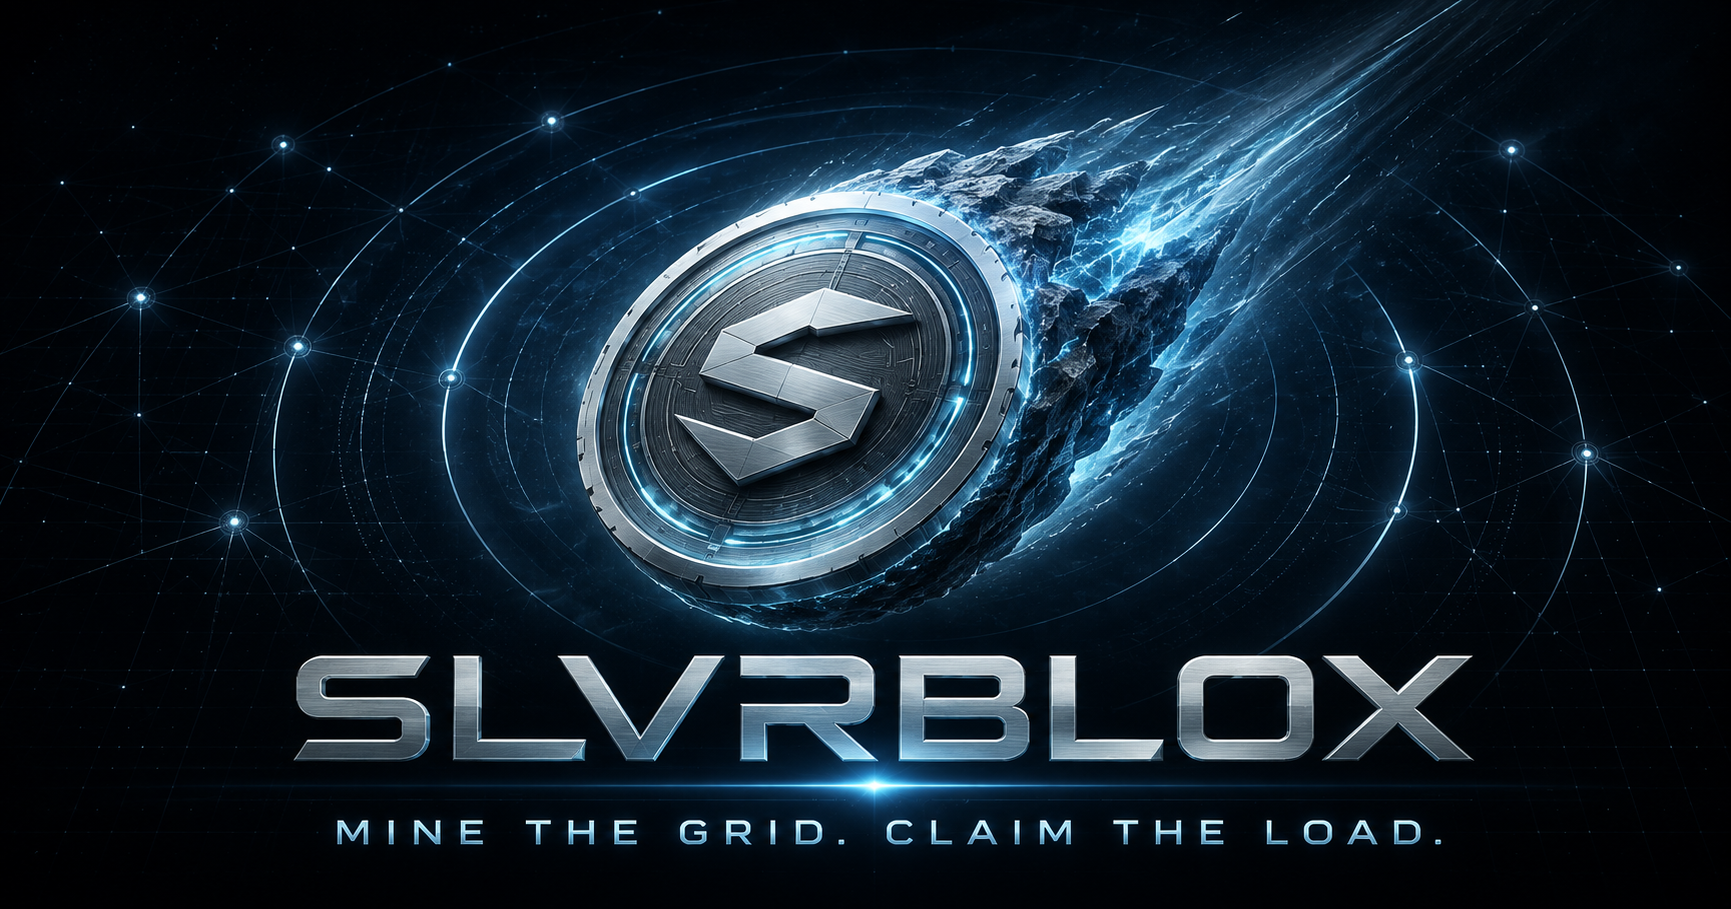
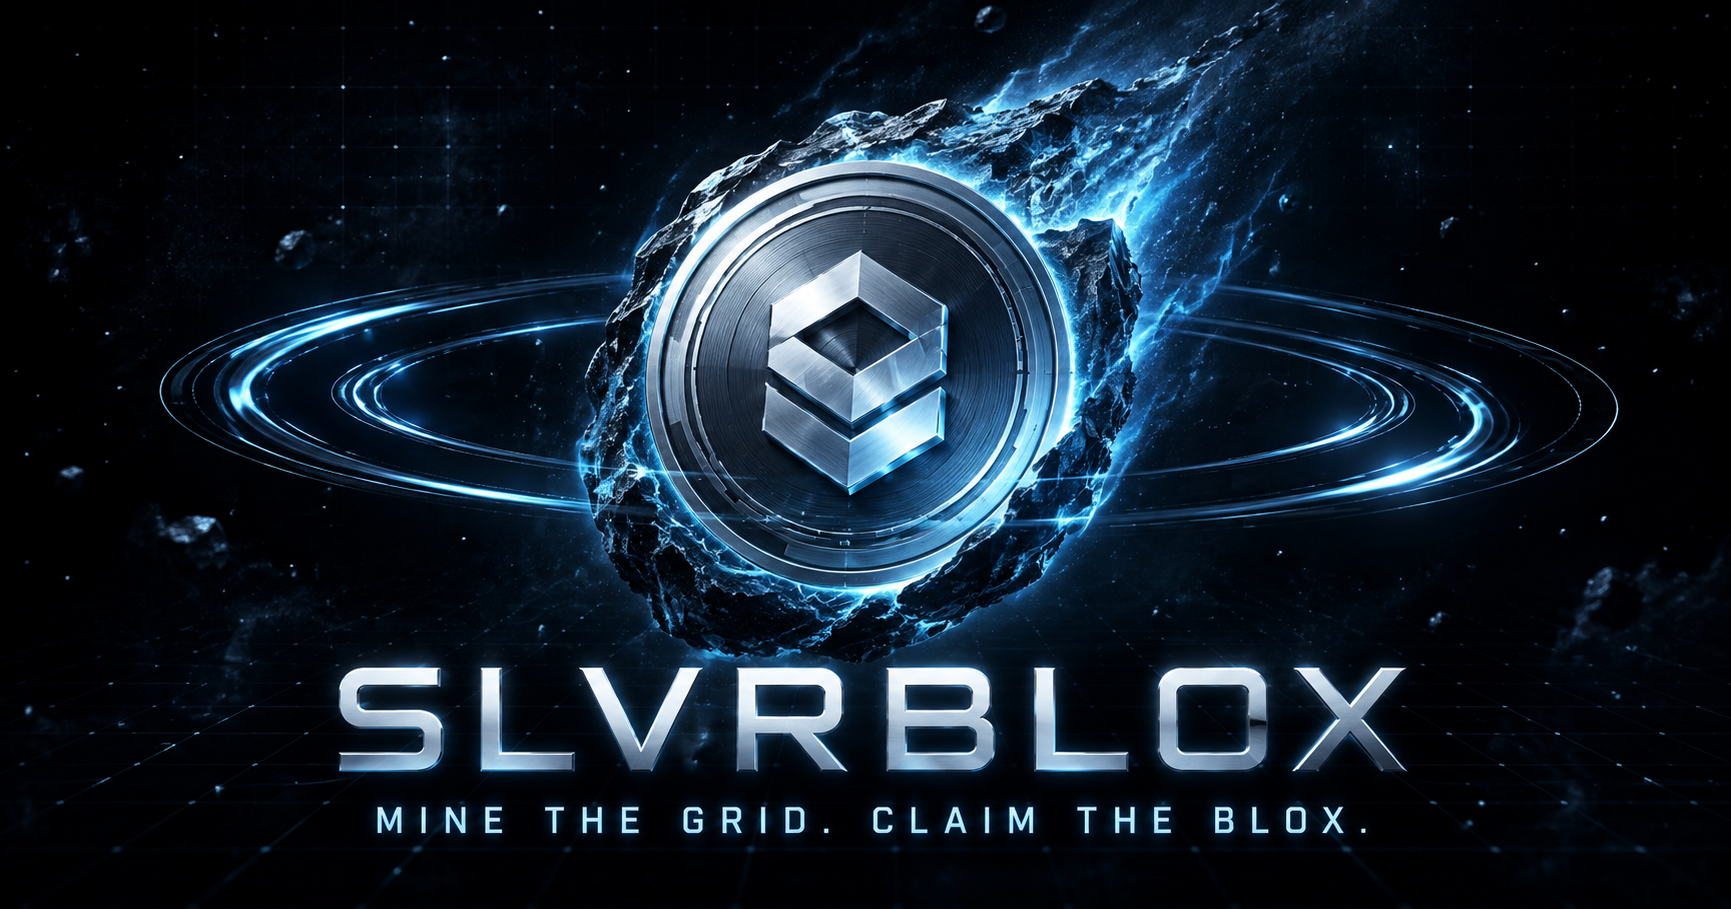
fix: refine landing hero layout and copy

diff --git a/web/app/globals.css b/web/app/globals.css
@@ -102,9 +102,9 @@ body .account-avatar>span,body .refining-card>.claim-icon{position:relative;disp
 .landing-page{--landing-ice:#a9e8ff;--landing-blue:#55c5f1;position:relative;min-height:100vh;overflow:hidden;background:radial-gradient(circle at 50% 43%,#172b39 0,#0a121a 21%,#05080d 52%,#030509 100%);color:#f4f8fb}.landing-page:before{content:"";position:absolute;inset:0;pointer-events:none;background-image:linear-gradient(rgba(255,255,255,.018) 1px,transparent 1px),linear-gradient(90deg,rgba(255,255,255,.018) 1px,transparent 1px);background-size:44px 44px;mask-image:linear-gradient(to bottom,black,transparent 75%)}
 .landing-nav{position:relative;z-index:5;display:flex;align-items:center;width:min(1380px,calc(100% - 64px));height:92px;margin:auto;border-bottom:1px solid rgba(151,196,222,.15)}.landing-logo{display:block;width:190px;height:54px}.landing-logo img{width:100%;height:100%;object-fit:contain;object-position:left}.landing-nav nav{display:flex;gap:34px;margin-left:auto}.landing-nav nav a,.landing-presale{color:#8493a2;font-size:12px;font-weight:750;text-decoration:none;transition:.2s}.landing-nav nav a:hover{color:#fff}.landing-presale{margin-left:38px;padding:11px 16px;border:1px solid #344d60;border-radius:99px;color:#bdeaff}.landing-presale:hover{border-color:#72cbea;background:#102333}
 .landing-hero{position:relative;display:grid;place-items:center;min-height:calc(100vh - 222px);isolation:isolate}.landing-orbit{position:absolute;width:min(69vw,820px);aspect-ratio:1;border:1px solid rgba(119,204,240,.22);border-radius:50%;box-shadow:0 0 100px rgba(38,140,187,.1),inset 0 0 90px rgba(49,143,184,.08);animation:landing-breathe 7s ease-in-out infinite}.landing-orbit:before,.landing-orbit:after,.landing-orbit i{content:"";position:absolute;border:1px solid rgba(111,188,240,.13);border-radius:50%;inset:10%}.landing-orbit:after{inset:25%;border-color:rgba(196,237,255,.2)}.landing-orbit i:nth-child(1){inset:-7%;border-style:dashed;animation:landing-spin 55s linear infinite}.landing-orbit i:nth-child(2){inset:19%;border-color:rgba(111,188,240,.26);animation:landing-spin 32s linear reverse infinite}.landing-orbit i:nth-child(3){inset:37%;border-color:rgba(231,249,255,.32)}
-.landing-coin{position:absolute;z-index:1;width:min(27vw,330px);filter:drop-shadow(0 0 55px rgba(95,198,240,.42));animation:landing-float 6s ease-in-out infinite}.landing-coin img{width:100%;height:auto}.landing-copy{position:relative;z-index:2;text-align:center;transform:translateY(80px)}.landing-copy>p{display:flex;justify-content:center;align-items:center;gap:9px;margin:0 0 20px;color:#8da7b7;font:750 9px/1 var(--font-geist-mono);letter-spacing:.2em}.landing-copy>p span{width:6px;height:6px;border-radius:50%;background:#6ee9b4;box-shadow:0 0 12px #6ee9b4}.landing-copy h1{margin:0;font-size:clamp(48px,6.5vw,92px);line-height:.93;letter-spacing:-.065em;text-shadow:0 8px 40px #000}.landing-copy h1 em{color:var(--landing-ice);font-style:normal}.landing-actions{display:flex;justify-content:center;align-items:center;gap:22px;margin-top:30px}.landing-actions a{font-size:12px;font-weight:850;text-decoration:none}.landing-primary{display:flex;align-items:center;gap:20px;padding:15px 21px;border-radius:99px;background:#f5f8fa;color:#081017;box-shadow:0 9px 30px rgba(0,0,0,.35)}.landing-primary b{font-size:17px}.landing-primary:hover{background:var(--landing-ice)}.landing-secondary{padding:14px;color:#a0afbb}.landing-secondary:hover{color:#fff}
-.landing-metrics{position:relative;z-index:4;display:grid;grid-template-columns:repeat(4,1fr);width:min(1120px,calc(100% - 64px));margin:-24px auto 0;border-top:1px solid rgba(151,196,222,.18);border-bottom:1px solid rgba(151,196,222,.12);background:rgba(4,8,13,.45);backdrop-filter:blur(14px)}.landing-metrics article{padding:19px 25px;border-right:1px solid rgba(151,196,222,.13)}.landing-metrics article:last-child{border:0}.landing-metrics span{display:block;color:#637888;font:750 8px/1 var(--font-geist-mono);letter-spacing:.15em}.landing-metrics strong{display:block;margin-top:9px;color:#e9f7fd;font-size:16px}.landing-footer{position:relative;z-index:4;display:flex;align-items:center;width:min(1380px,calc(100% - 64px));min-height:72px;margin:auto;color:#526574;font:700 9px/1 var(--font-geist-mono);letter-spacing:.12em}.landing-footer div{display:flex;gap:24px;margin:auto}.landing-footer a{color:#607483;text-decoration:none}.landing-footer a:hover{color:#a9e8ff}.landing-footer small{color:#68ccef}
+.landing-live{position:absolute;z-index:3;top:7%;display:flex;align-items:center;gap:9px;margin:0;color:#9ab0bd;font:750 9px/1 var(--font-geist-mono);letter-spacing:.2em;text-shadow:0 2px 10px #02060a}.landing-live span{width:6px;height:6px;border-radius:50%;background:#6ee9b4;box-shadow:0 0 12px #6ee9b4}.landing-coin{position:absolute;z-index:1;width:min(27vw,330px);filter:drop-shadow(0 0 55px rgba(95,198,240,.42));animation:landing-float 6s ease-in-out infinite}.landing-coin img{width:100%;height:auto}.landing-copy{position:relative;z-index:2;text-align:center;transform:translateY(43px)}.landing-copy h1{margin:0;font-size:clamp(48px,6.5vw,92px);line-height:.93;letter-spacing:-.065em;text-shadow:0 8px 40px #000}.landing-copy h1 em{color:var(--landing-ice);font-style:normal}.landing-actions{display:flex;justify-content:center;align-items:center;gap:22px;margin-top:25px}.landing-actions a{font-size:12px;font-weight:850;text-decoration:none}.landing-primary{display:flex;align-items:center;gap:20px;padding:15px 21px;border-radius:99px;background:#f5f8fa;color:#081017;box-shadow:0 9px 30px rgba(0,0,0,.35)}.landing-primary b{font-size:17px}.landing-primary:hover{background:var(--landing-ice)}.landing-secondary{padding:14px;color:#a0afbb}.landing-secondary:hover{color:#fff}
+.landing-metrics{position:relative;z-index:4;display:grid;grid-template-columns:repeat(4,1fr);width:min(1120px,calc(100% - 64px));margin:0 auto;border-top:1px solid rgba(151,196,222,.18);border-bottom:1px solid rgba(151,196,222,.12);background:rgba(4,8,13,.45);backdrop-filter:blur(14px)}.landing-metrics article{padding:19px 25px;border-right:1px solid rgba(151,196,222,.13)}.landing-metrics article:last-child{border:0}.landing-metrics span{display:block;color:#637888;font:750 8px/1 var(--font-geist-mono);letter-spacing:.15em}.landing-metrics strong{display:block;margin-top:9px;color:#e9f7fd;font-size:16px}.landing-footer{position:relative;z-index:4;display:flex;align-items:center;width:min(1380px,calc(100% - 64px));min-height:72px;margin:auto;color:#526574;font:700 9px/1 var(--font-geist-mono);letter-spacing:.12em}.landing-footer div{display:flex;gap:24px;margin:auto}.landing-footer a{color:#607483;text-decoration:none}.landing-footer a:hover{color:#a9e8ff}.landing-footer small{color:#68ccef}
 @keyframes landing-spin{to{transform:rotate(360deg)}}@keyframes landing-float{50%{transform:translateY(-13px) rotate(2deg)}}@keyframes landing-breathe{50%{transform:scale(1.025);opacity:.82}}
-@media(max-width:760px){.landing-nav{width:calc(100% - 30px);height:72px}.landing-logo{width:145px}.landing-nav nav{display:none}.landing-presale{margin-left:auto;padding:9px 13px}.landing-hero{min-height:640px}.landing-orbit{width:145vw}.landing-coin{top:78px;width:230px}.landing-copy{padding:0 18px;transform:translateY(82px)}.landing-copy h1{font-size:clamp(44px,14vw,66px)}.landing-actions{flex-direction:column;gap:5px}.landing-metrics{grid-template-columns:1fr 1fr;width:calc(100% - 30px);margin:-50px auto 0}.landing-metrics article:nth-child(2){border-right:0}.landing-metrics article:nth-child(-n+2){border-bottom:1px solid rgba(151,196,222,.13)}.landing-metrics article{padding:15px}.landing-metrics strong{font-size:14px}.landing-footer{width:calc(100% - 30px);justify-content:space-between}.landing-footer div{display:none}}
+@media(max-width:760px){.landing-nav{width:calc(100% - 30px);height:72px}.landing-logo{width:145px}.landing-nav nav{display:none}.landing-presale{margin-left:auto;padding:9px 13px}.landing-hero{min-height:640px}.landing-orbit{width:145vw}.landing-live{top:42px}.landing-coin{top:78px;width:230px}.landing-copy{padding:0 18px;transform:translateY(48px)}.landing-copy h1{font-size:clamp(44px,14vw,66px)}.landing-actions{flex-direction:column;gap:5px}.landing-metrics{grid-template-columns:1fr 1fr;width:calc(100% - 30px);margin:0 auto}.landing-metrics article:nth-child(2){border-right:0}.landing-metrics article:nth-child(-n+2){border-bottom:1px solid rgba(151,196,222,.13)}.landing-metrics article{padding:15px}.landing-metrics strong{font-size:14px}.landing-footer{width:calc(100% - 30px);justify-content:space-between}.landing-footer div{display:none}}
 @media(prefers-reduced-motion:reduce){.landing-orbit,.landing-orbit i,.landing-coin{animation:none}}
 .landing-seo{position:relative;z-index:3;width:min(1120px,calc(100% - 64px));margin:88px auto 34px;padding-top:44px;border-top:1px solid rgba(151,196,222,.16)}.landing-seo>div:first-child{display:grid;grid-template-columns:.55fr 1.45fr;align-items:start;gap:30px}.landing-seo>div>p{margin:7px 0 0;color:#69c9ef;font:750 9px/1 var(--font-geist-mono);letter-spacing:.17em}.landing-seo h2{max-width:680px;margin:0;font-size:clamp(30px,4.2vw,52px);line-height:1.05;letter-spacing:-.045em}.landing-seo-grid{display:grid;grid-template-columns:repeat(3,1fr);gap:1px;margin-top:42px;background:rgba(151,196,222,.13)}.landing-seo article{min-height:230px;padding:28px;background:#070c12}.landing-seo article>span{color:#547487;font:700 9px/1 var(--font-geist-mono)}.landing-seo h3{margin:34px 0 12px;font-size:17px}.landing-seo article p{min-height:60px;margin:0;color:#718493;font-size:12px;line-height:1.65}.landing-seo article a{display:inline-block;margin-top:22px;color:#9fe3ff;font-size:11px;font-weight:800;text-decoration:none}.landing-seo article a:hover{color:#fff}@media(max-width:760px){.landing-seo{width:calc(100% - 30px);margin-top:58px}.landing-seo>div:first-child{grid-template-columns:1fr;gap:16px}.landing-seo-grid{grid-template-columns:1fr}.landing-seo article{min-height:0}.landing-seo article p{min-height:0}}

diff --git a/web/app/layout.tsx b/web/app/layout.tsx
@@ -17,7 +17,7 @@ const geistMono = Geist_Mono({
 
 export const metadata: Metadata = {
   metadataBase: new URL("https://www.slvrblox.com"),
-  title: "SLVRBLOX — Mine the Grid. Claim the Load.",
+  title: "SLVRBLOX — Mine the Grid. Claim the Blox.",
   description: "Deploy SUI across the live mining grid, compete for rewards, discover Motherload rounds, and refine DSLVR on Sui.",
   applicationName: "SLVRBLOX",
   keywords: ["SLVRBLOX", "DSLVR", "Sui blockchain game", "Sui mining game", "crypto game", "blockchain gaming", "Sui Testnet", "DSLVR airdrop"],
@@ -32,16 +32,16 @@ export const metadata: Metadata = {
     apple: "/brand/dslvr-coin.png",
   },
   openGraph: {
-    title: "SLVRBLOX — Mine the Grid. Claim the Load.",
+    title: "SLVRBLOX — Mine the Grid. Claim the Blox.",
     description: "A live mining game and community ecosystem built on Sui.",
     url: "https://www.slvrblox.com",
     siteName: "SLVRBLOX",
     type: "website",
-    images: [{ url: "/og.png", width: 1200, height: 630, alt: "SLVRBLOX — Mine the Grid. Claim the Load." }],
+    images: [{ url: "/og.png", width: 1200, height: 630, alt: "SLVRBLOX — Mine the Grid. Claim the Blox." }],
   },
   twitter: {
     card: "summary_large_image",
-    title: "SLVRBLOX — Mine the Grid. Claim the Load.",
+    title: "SLVRBLOX — Mine the Grid. Claim the Blox.",
     description: "A live mining game and community ecosystem built on Sui.",
     images: ["/og.png"],
   },

diff --git a/web/app/landing-page.tsx b/web/app/landing-page.tsx
@@ -40,10 +40,10 @@ export function LandingPage() {
 
     <section className="landing-hero">
       <div className="landing-orbit" aria-hidden="true"><i /><i /><i /></div>
+      <p className="landing-live"><span /> SUI TESTNET · LIVE</p>
       <div className="landing-coin" aria-hidden="true"><img src="/brand/dslvr-coin.png" alt="" /></div>
       <div className="landing-copy">
-        <p><span /> SUI TESTNET · LIVE</p>
-        <h1>Mine the grid.<br />Claim the <em>load.</em></h1>
+        <h1>Mine the grid.<br />Claim the <em>blox.</em></h1>
         <div className="landing-actions">
           <Link className="landing-primary" href="/mine">Enter the mine <b>→</b></Link>
           <Link className="landing-secondary" href="/whitepaper">Explore the protocol</Link>
